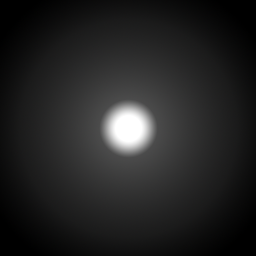
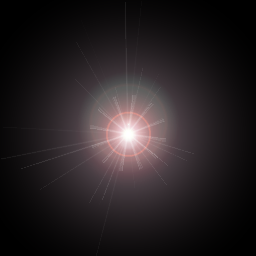
+ updated particle graphic + made zoom max a bit bigger + now interpolating particle movement and gave it a real speed (per frame)

Changed region(s): [[0.2812, 0.3125, 0.7188, 0.75]]

diff --git a/js/visualize.js b/js/visualize.js
@@ -121,6 +121,10 @@ function getVisualizedMesh( linearData, year, countries, exportCategories, impor
 				var point = points[rIndex];						
 				var particle = point.clone();
 				particle.moveIndex = rIndex;
+				particle.nextIndex = rIndex+1;
+				if(particle.nextIndex >= points.length )
+					particle.nextIndex = 0;
+				particle.lerpN = 0;
 				particle.path = points;
 				particlesGeo.vertices.push( particle );	
 				particle.size = particleSize;
@@ -195,7 +199,7 @@ function getVisualizedMesh( linearData, year, countries, exportCategories, impor
 	uniforms = {
 		amplitude: { type: "f", value: 1.0 },
 		color:     { type: "c", value: new THREE.Color( 0xffffff ) },
-		texture:   { type: "t", value: 0, texture: THREE.ImageUtils.loadTexture( "images/map_mask.png" ) },
+		texture:   { type: "t", value: 0, texture: THREE.ImageUtils.loadTexture( "images/particleA.png" ) },
 	};
 
 	var shaderMaterial = new THREE.ShaderMaterial( {
@@ -239,10 +243,24 @@ function getVisualizedMesh( linearData, year, countries, exportCategories, impor
 			var particle = this.geometry.vertices[i];
 			var path = particle.path;
 			var moveLength = path.length;
-			particle.moveIndex ++;
-			if( particle.moveIndex >= moveLength )
-				particle.moveIndex = 0;							
-			particle.copy( path[particle.moveIndex] );
+			
+			particle.lerpN += 0.05;
+			if(particle.lerpN > 1){
+				particle.lerpN = 0;
+				particle.moveIndex = particle.nextIndex;
+				particle.nextIndex++;
+				if( particle.nextIndex >= path.length ){
+					particle.moveIndex = 0;
+					particle.nextIndex = 1;
+				}
+			}
+
+			var currentPoint = path[particle.moveIndex];
+			var nextPoint = path[particle.nextIndex];
+			
+
+			particle.copy( currentPoint );
+			particle.lerpSelf( nextPoint, particle.lerpN );			
 		}
 		this.geometry.verticesNeedUpdate = true;
 	};		

diff --git a/js/visualize_lines.js b/js/visualize_lines.js
@@ -59,15 +59,19 @@ function makeConnectionLineGeometry( exporter, importer, value, type ){
 
 	//	collect the vertices
 	var points = splineCurveA.getPoints( vertexCountDesired );
+
+	//	remove the very last point since it will be duplicated on the next half of the curve
+	points = points.splice(0,points.length-1);
+
 	points = points.concat( splineCurveB.getPoints( vertexCountDesired ) );
 
 	//	add one final point to the center of the earth
 	//	we need this for drawing multiple arcs, but piled into one geometry buffer
 	points.push( vec3_origin );
 
-	var val = value * 0.0001;
+	var val = value * 0.0003;
 	
-	var size = 10 + Math.sqrt(val);
+	var size = (10 + Math.sqrt(val));
 
 	//	create a line geometry out of these
 	var curveGeometry = THREE.Curve.Utils.createLineGeometry( points );

diff --git a/js/mousekeyboard.js b/js/mousekeyboard.js
@@ -51,7 +51,7 @@ function onKeyDown( event ){
 
 function handleMWheel( delta ) {
 	camera.scale.z += delta * 0.1;
-	camera.scale.z = constrain( camera.scale.z, 0.8, 3.5 );
+	camera.scale.z = constrain( camera.scale.z, 0.8, 5.0 );
 }
 
 function onMouseWheel( event ){
